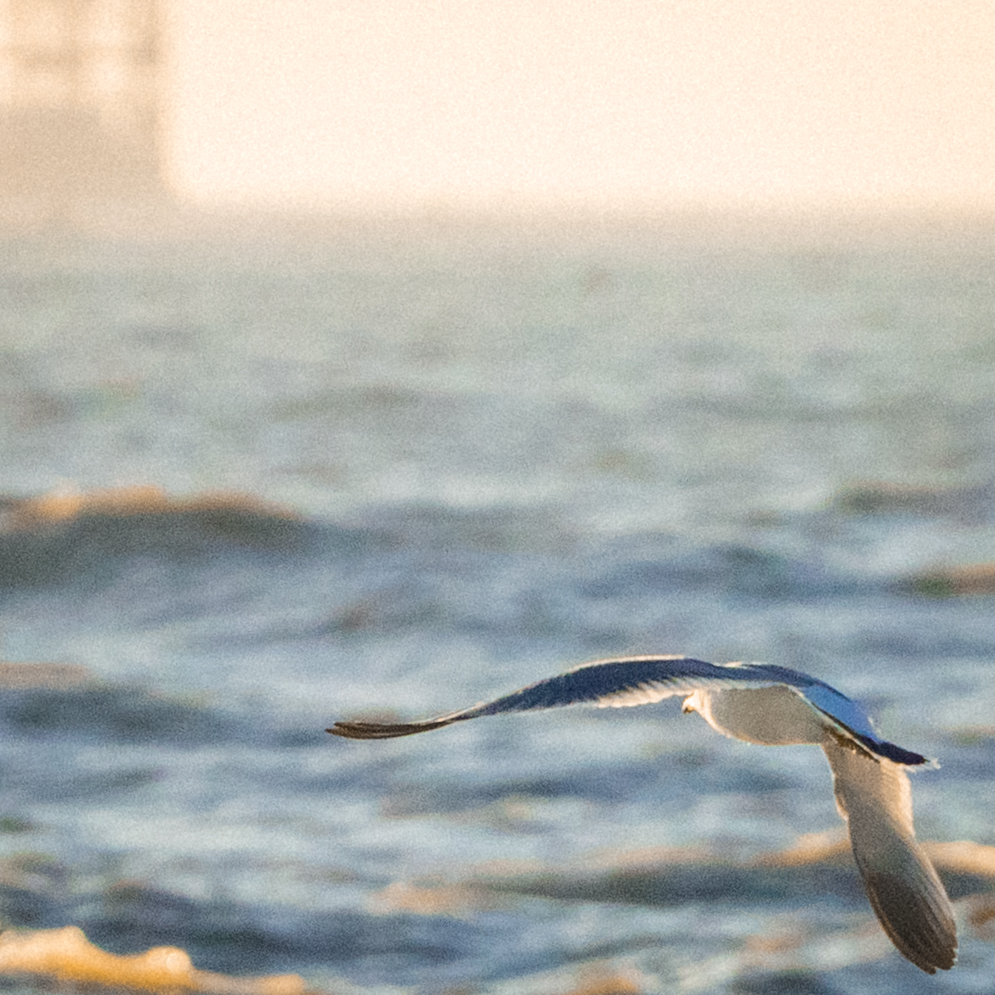
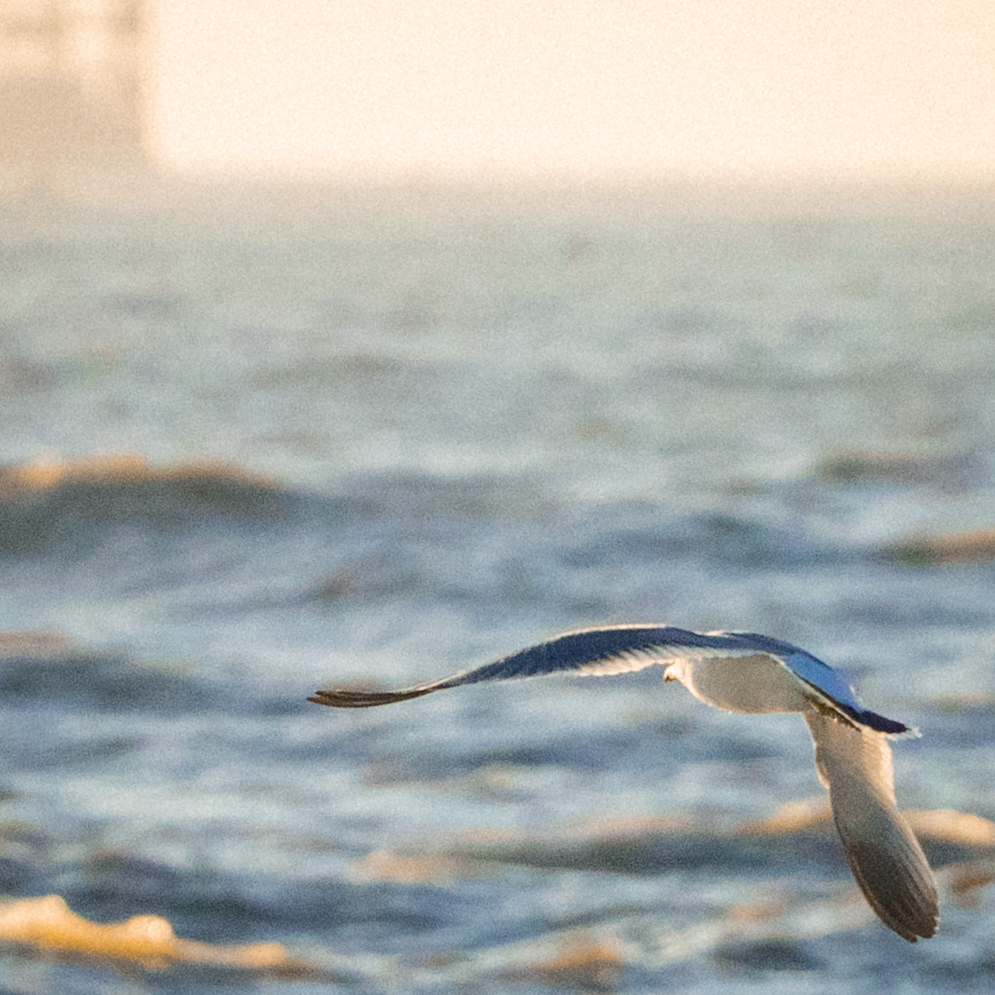
g

diff --git a/js/wildlife-data.js b/js/wildlife-data.js
@@ -25,7 +25,7 @@ const wildlifeStories = [
     ],
     alt: "Replace with a description of this photograph for screen readers",
     meta: "Saemangeum and Daejangdo",
-    title: "Common Gull Above",
+    title: "Common Gulls Above",
     text: "Circling above the Chesapeake & Ohio Canal National Historical Park was a kettle of Turkey Vultures. Luckily for me, the vultures swooped down low enough for me to snag these photos.",
   },
   {
@@ -35,8 +35,8 @@ const wildlifeStories = [
     ],
     alt: "Replace with a description of this photograph for screen readers",
     meta: "Saemangeum and Daejangdo",
-    title: "Large Billed Crow",
-    text: "Circling above the Chesapeake & Ohio Canal National Historical Park was a kettle of Turkey Vultures. Luckily for me, the vultures swooped down low enough for me to snag these photos.",
+    title: "Crows of Saemangeum",
+    text: "In 1991, construction began on a large sea wall that would reclaim land off the coast of Gunsan. As I saw a rice field of land that was once a getbol as human intervention met nature. This land was once an important grounds for endangered migratory bird populations, but perhaps almost poetically, all the birds we saw were Large Black Crows scattered through the fields.",
   },
   {
     images: [
@@ -66,7 +66,7 @@ const wildlifeStories = [
     alt: "Replace with a description of this photograph for screen readers",
     meta: "Yubudo Island",
     title: "Yubudo's Dog",
-    text: "Circling above the Chesapeake & Ohio Canal National Historical Park was a kettle of Turkey Vultures. Luckily for me, the vultures swooped down low enough for me to snag these photos.",
+    text: "Yubudo Island holds a small village .",
   },
   {
     images: [
@@ -77,7 +77,7 @@ const wildlifeStories = [
     alt: "Replace with a description of this photograph for screen readers",
     meta: "Yubudo Island",
     title: "Gulls Near Grandpa's Island",
-    text: "Circling above the Chesapeake & Ohio Canal National Historical Park was a kettle of Turkey Vultures. Luckily for me, the vultures swooped down low enough for me to snag these photos.",
+    text: "Sitting off the coast next to a Hyundai Factory and S-Oil storage facility, we saw a small boat enter into the horizon. We entered into the boat and as we rode to visit Grandpa's island, we passed by the local gulls, some who even glided near the top of the boat.",
   },
   {
     images: [
